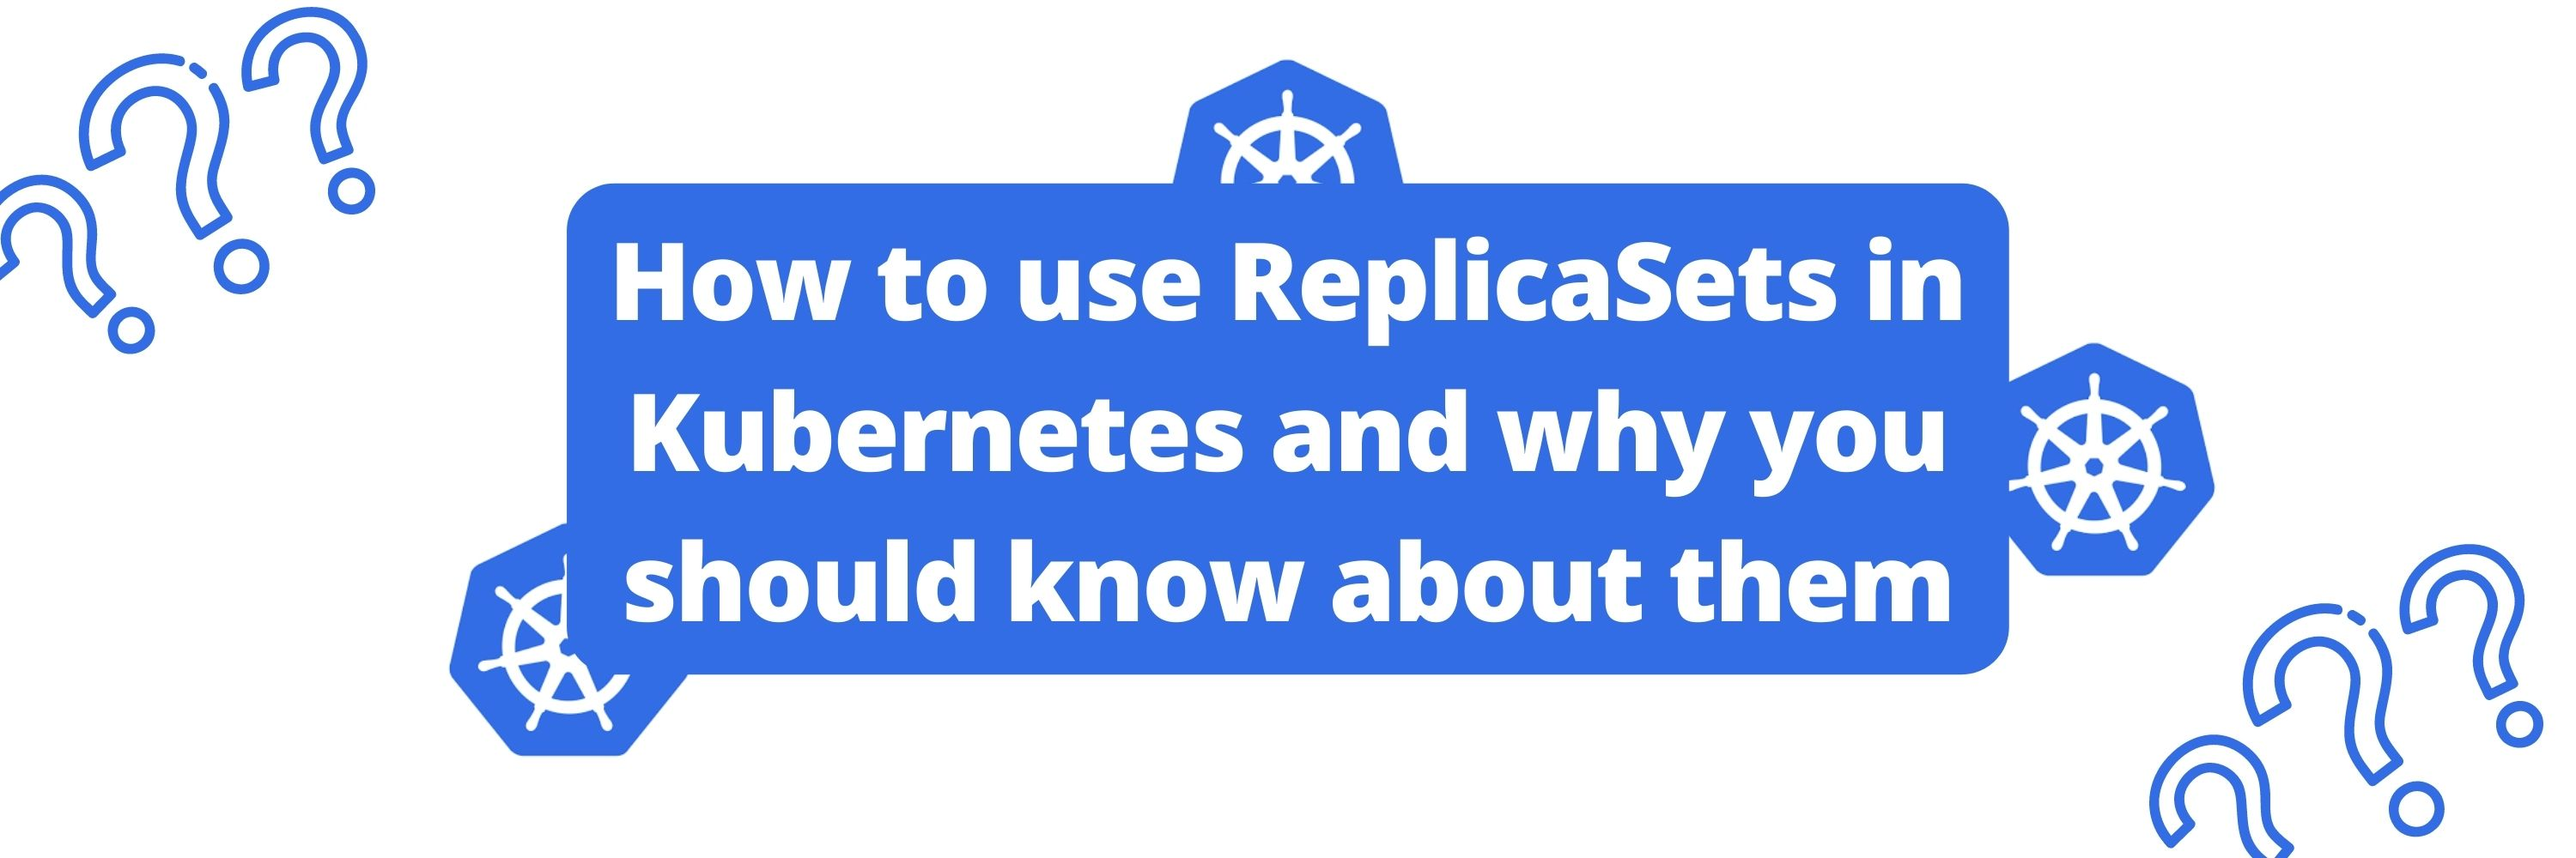
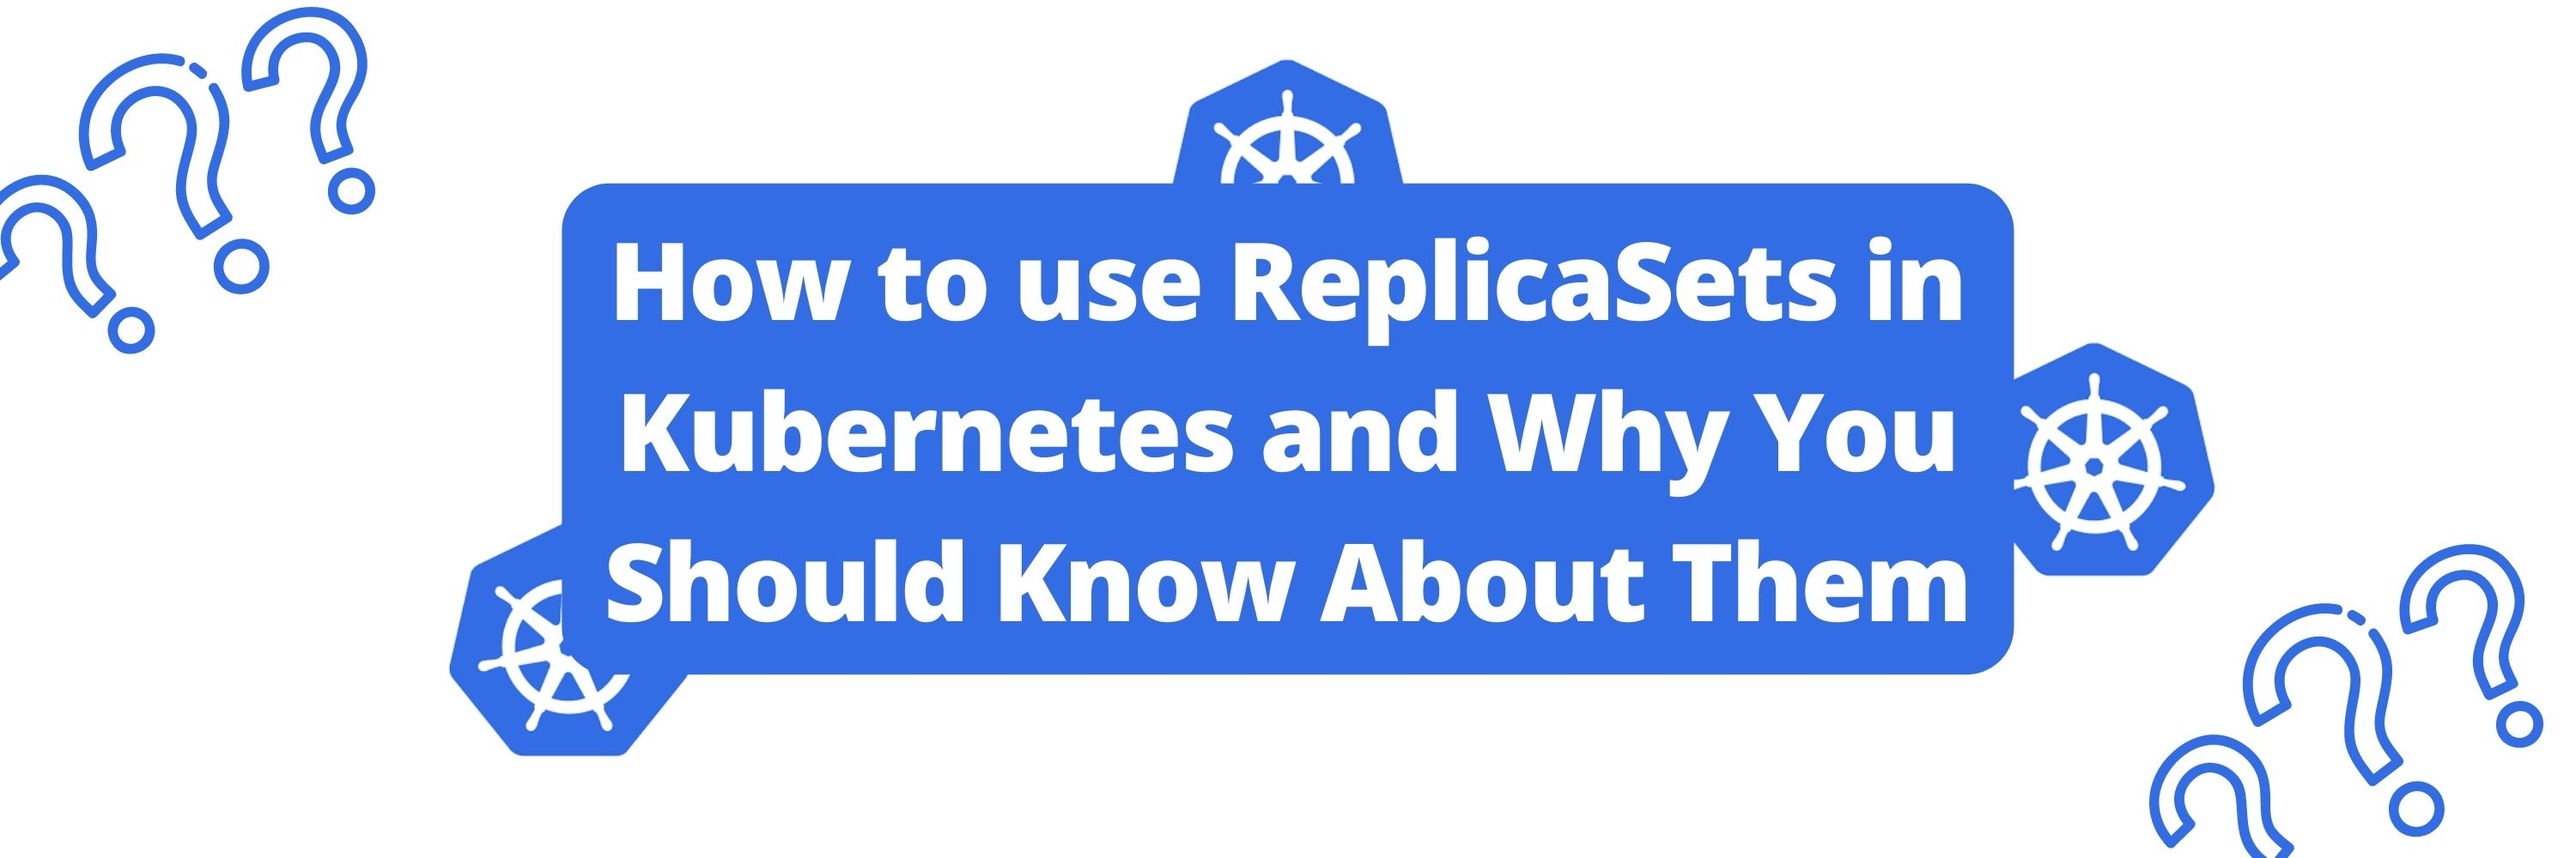
Done with all requested changes

Changed region(s): [[0.217, 0.434, 0.775, 0.589], [0.217, 0.62, 0.775, 0.744], [0.217, 0.217, 0.248, 0.248]]

diff --git a/blog/_posts/2022-09-30-use-replicasets-in-k8s.md b/blog/_posts/2022-09-30-use-replicasets-in-k8s.md
@@ -1,5 +1,5 @@
 ---
-title: "How to use ReplicaSets in Kubernetes and why you should know about them"
+title: "How to use ReplicaSets in Kubernetes and Why You Should Know About Them"
 categories:
   - Tutorials
 toc: true
@@ -68,7 +68,7 @@ The above command creates any resource that is defined in the file `pod.yml`, in
 
 The above command will produce an output like below. Note that `STATUS` is `ContainerCreating`. It will show Running once it finishes pulling the container image.
 
-~~~{.bash caption=">_"}
+~~~{.bash caption="output"}
 NAME        READY    STATUS             RESTARTS     AGE
 server-pod    0/1    ContainerCreating     0         77s
 ~~~
@@ -83,7 +83,7 @@ pod "server-pod" deleted
 
 To check if the pod is deleted, you can run `kubectl get pods`, which will produce the following output.
 
-~~~{.bash caption=">_"}
+~~~{.bash caption="output"}
 No resources found in default namespace
 ~~~
 
@@ -137,7 +137,7 @@ kubectl get pods
 
 Above command will produce the following output:
 
-~~~{.bash caption=">_"}
+~~~{.bash caption="output"}
 NAME                  READY       STATUS             RESTARTS    AGE
 my-replicaset-58fbh    0/1        ContainerCreating     0        51s 
 my-replicaset-lx5hk    0/1        Running               0        51s 
@@ -147,7 +147,7 @@ my-replicaset-qrqj2    0/1        ContainerCreating     0        51s
 You'll notice that your cluster has three pods, which corresponds to the number of replicas indicated in your YAML file.
 The command `kubectl get rs` used to obtain summary information about the ReplicaSet, running this command will produce the following output.
 
-~~~{.bash caption=">_"}
+~~~{.bash caption="output"}
 NAME          DESIRED    CURRENT        READY       AGE
 my-replicaset    3        3               0         14s
 ~~~
@@ -164,13 +164,13 @@ kubectl delete pod my-replicaset-58fbh
 
 Note that the above pod name would be different in your cluster. Running the above command will produce the following output.
 
-~~~{.bash caption=">_"}
+~~~{.bash caption="output"}
 pod "my-replicaset-58fbh" deleted
 ~~~
 
 As soon as you perform the preceding command. To acquire the list of active pods, run `kubectl get pods`. You will get the below output.
 
-~~~{.bash caption=">_"}
+~~~{.bash caption="output"}
 NAME                  READY   STATUS              RESTARTS    AGE
 my-replicaset-lx5hk    0/1    Running               0        5m 10s 
 my-replicaset-qrqj2    0/1    Running               0        5m 10s 
@@ -185,7 +185,7 @@ By using the command `kubectl delete rs <rs name>`, where `rs name` is the name 
 You may test it, after deleting the ReplicaSet and then typing the command `kubectl get pods` into the terminal.
 The above command will generate the following output.
 
-~~~{.bash caption=">_"}
+~~~{.bash caption="output"}
 No resources found in default namespace
 ~~~
 
